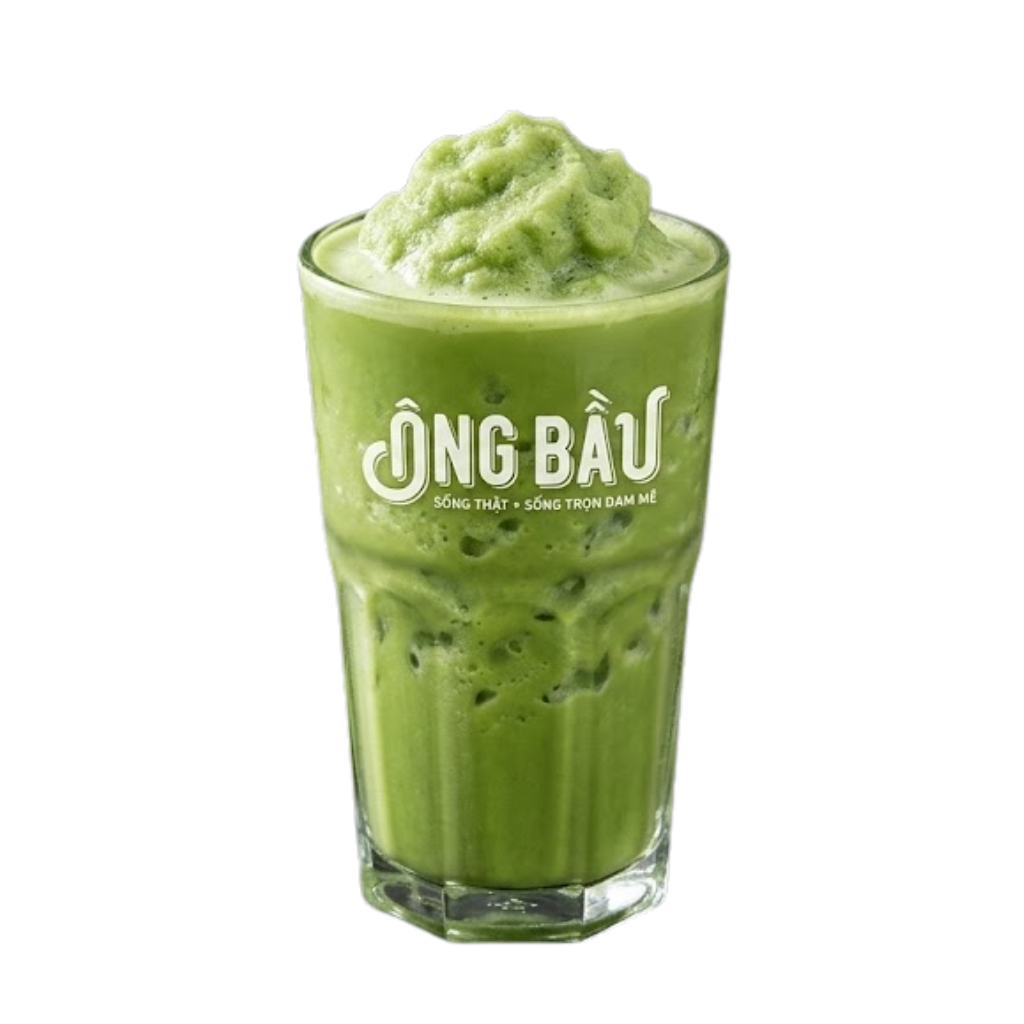
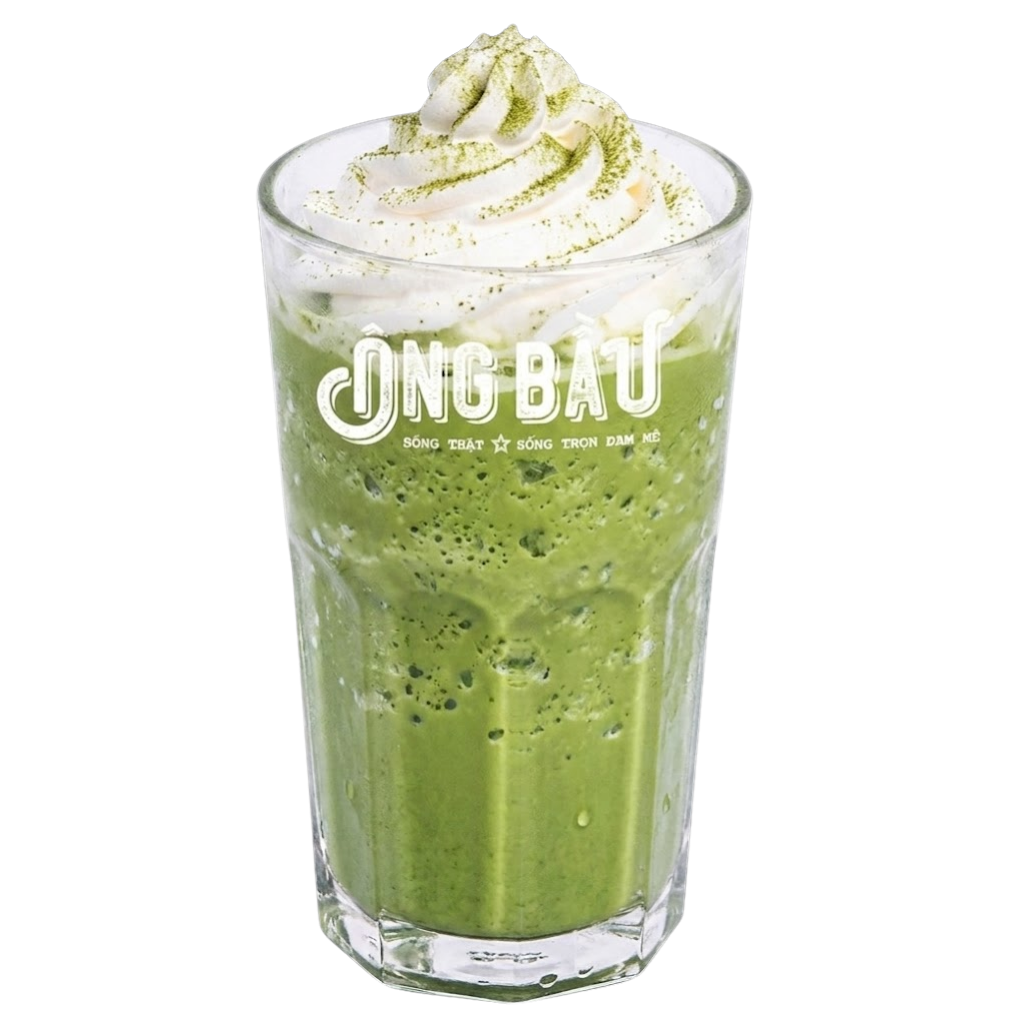
23.07 - 10

diff --git a/src/data/menu.js b/src/data/menu.js
@@ -290,7 +290,7 @@ export const menu = [
     id: 30,
     name: "Trà Lựu Nha Đam",
     category: "tea",
-    image: "/images/tea/luu-nhadam.jpg",
+    image: "/images/tea/l.png",
     sizes: {
       M: 38000,
       L: 43000,